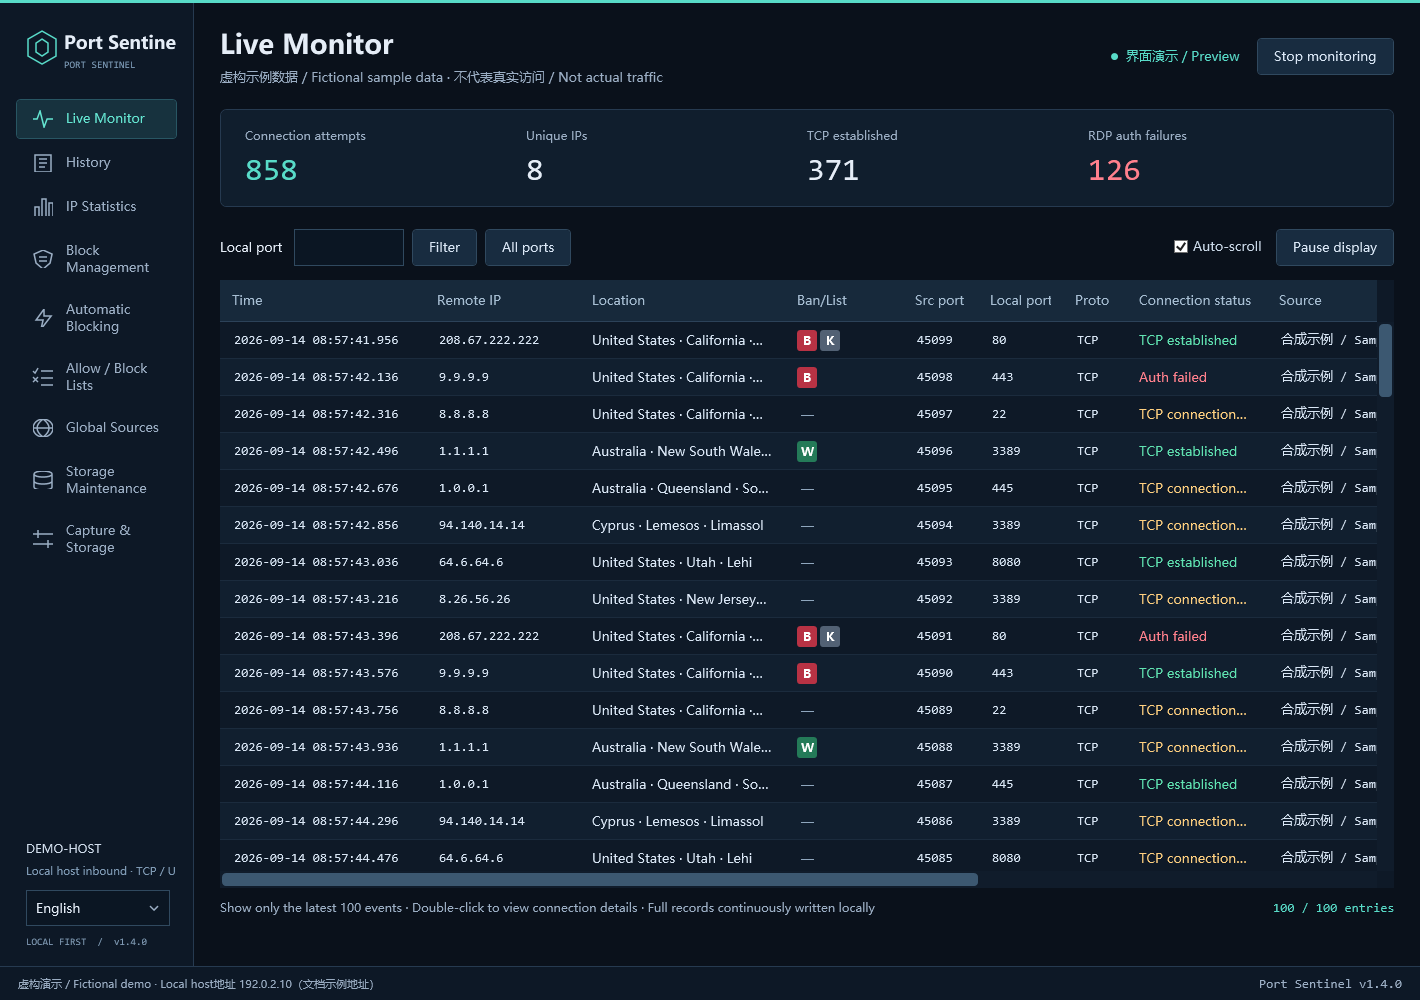
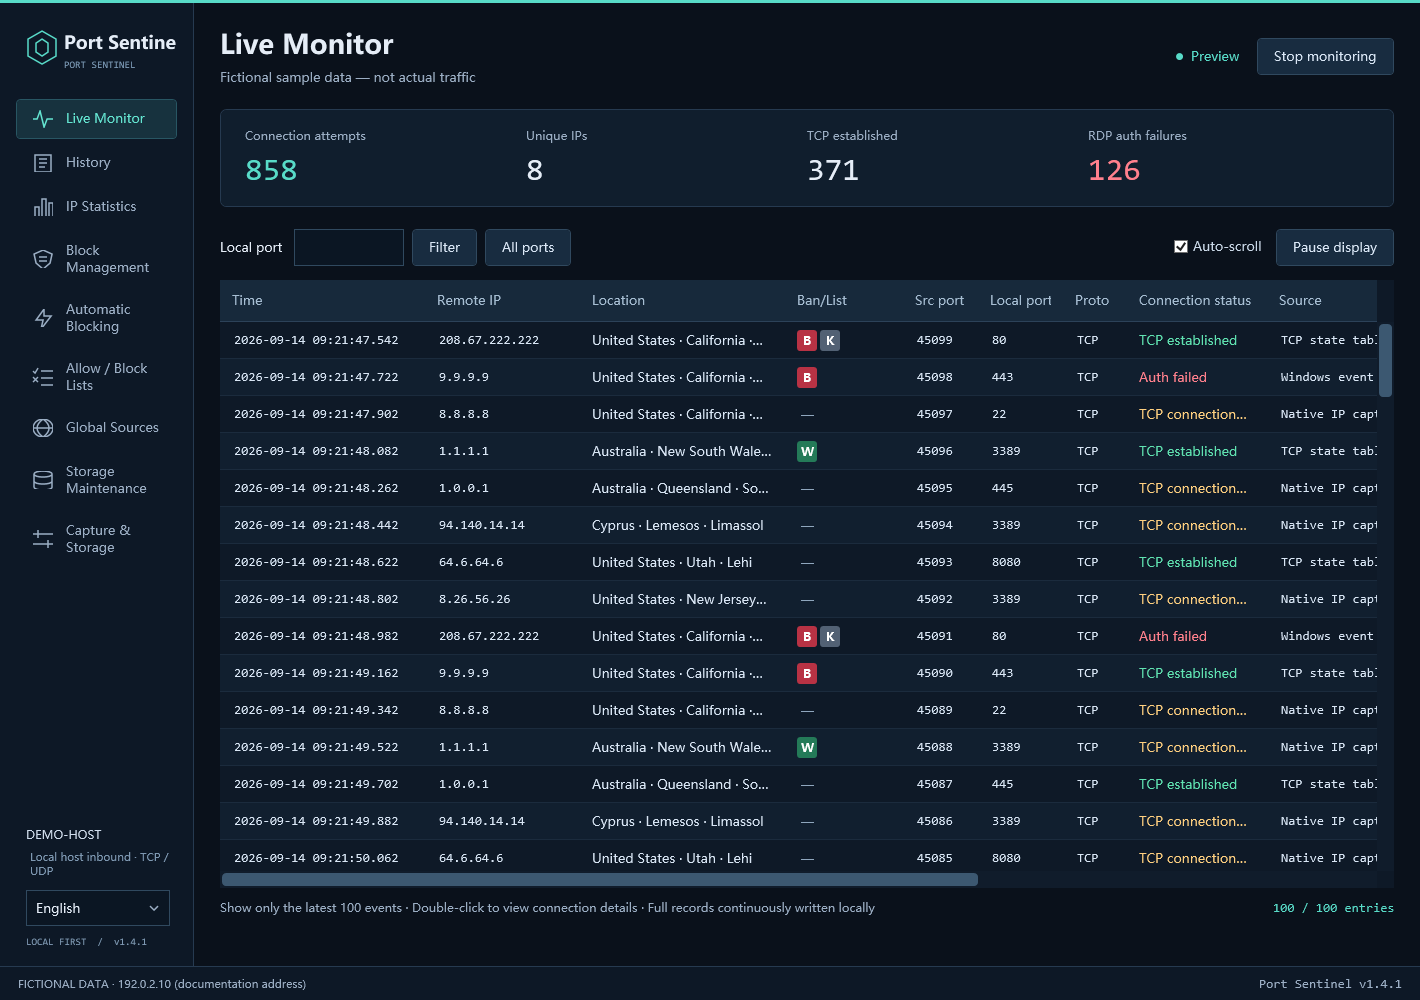
fix: 补齐动态多语言覆盖 / complete dynamic localization coverage

diff --git a/README.md b/README.md
@@ -12,8 +12,8 @@ Port Sentinel is a Windows desktop inbound connection monitor for users and admi
 
 ## 快速开始 / Quick start
 
-1. 从 [v1.4.0 Release](https://github.com/zuelu/port-sentinel/releases/tag/v1.4.0) 下载 **PortSentinel-v1.4.0-windows-x64.zip**，解压到可写的固定目录。
-   Download **PortSentinel-v1.4.0-windows-x64.zip** from the [v1.4.0 release](https://github.com/zuelu/port-sentinel/releases/tag/v1.4.0) and extract it to a stable, writable folder.
+1. 从 [v1.4.1 Release](https://github.com/zuelu/port-sentinel/releases/tag/v1.4.1) 下载 **PortSentinel-v1.4.1-windows-x64.zip**，解压到可写的固定目录。
+   Download **PortSentinel-v1.4.1-windows-x64.zip** from the [v1.4.1 release](https://github.com/zuelu/port-sentinel/releases/tag/v1.4.1) and extract it to a stable, writable folder.
 2. 运行 **PortSentinel.exe**，在 Windows 提示时允许管理员权限；保持 `GeoData` 和 `Languages` 文件夹与 EXE 同目录。
    Run **PortSentinel.exe** and grant administrator permission when Windows asks. Keep the `GeoData` and `Languages` folders beside the EXE.
 3. 在“实时监测”输入本机端口，如 `3389`，点击“筛选”。在“历史日志”和“IP 统计”按日期、端口或 IP 回查。
@@ -43,9 +43,9 @@ Language packs live in `Languages`, work offline, and can be customized. See the
 <a id="screenshots"></a>
 ## 功能页面截图 / Feature screenshots
 
-以下展示 v1.4.0 的 9 个功能页面，均使用虚构演示数据。截图中的地址、连接、规则和主机信息仅用于说明界面，不代表真实流量或相关服务的行为。点击图片可查看大图。
+以下展示 v1.4.1 的 9 个功能页面，均使用虚构演示数据。截图中的地址、连接、规则和主机信息仅用于说明界面，不代表真实流量或相关服务的行为。点击图片可查看大图。
 
-These screenshots show all nine feature pages in v1.4.0 using fictional sample data. Addresses, connections, rules, and host details illustrate the interface only; they do not represent actual traffic or the behavior of the named services. Click an image to view it at full size.
+These screenshots show all nine feature pages in v1.4.1 using fictional sample data. Addresses, connections, rules, and host details illustrate the interface only; they do not represent actual traffic or the behavior of the named services. Click an image to view it at full size.
 
 ### 实时端口监测 / Live port monitoring
 

diff --git a/CHANGELOG.md b/CHANGELOG.md
@@ -1,5 +1,22 @@
 # 更新日志 / Changelog
 
+## v1.4.1 — 2026-09-14
+
+- 修复实时监测、历史日志、IP统计、封禁、自动规则和名单列表中动态状态及来源的漏译，刷新、滚动与新增记录继续使用所选语言。
+  Fixed untranslated dynamic states and sources in live, history, IP statistics, block, rule, and list views. Refreshing, scrolling, and new records retain the selected language.
+- 补齐19种语言的事件说明、封禁状态、数值时长、规则条件和采集能力模板。
+  Completed event-detail, block-state, numeric-duration, rule-condition, and capture-capability templates in all 19 languages.
+- 修复下拉选项、大屏动态提示、存储状态和详情窗口的漏译。
+  Fixed untranslated dropdown labels, dynamic dashboard messages, storage states, and detail windows.
+- 默认规则名跟随界面语言；用户改写的规则名和备注保持原样。时区显示改用稳定的系统ID和实际UTC偏移。
+  The suggested rule name follows the interface language, while user-edited names and notes stay unchanged. Timezone display uses a stable system ID and actual UTC offset.
+
+升级请同时更新 EXE 和 `Languages` 文件夹；保留数据库、地理库及 `ui-language.txt`。
+
+Update both the EXE and the `Languages` folder. Retain databases, geolocation data, and `ui-language.txt`.
+
+[下载 v1.4.1 / Download v1.4.1](https://github.com/zuelu/port-sentinel/releases/tag/v1.4.1)
+
 ## v1.4.0 — 2026-09-14
 
 - 新增 19 种界面语言与离线 JSON 语言包，简体中文第一、英语第二。

diff --git a/INSTALL.md b/INSTALL.md
@@ -18,8 +18,8 @@ The UI supports 19 languages. Instructions show Chinese control labels with Engl
 
 ## 下载与启动 / Download and launch
 
-1. 打开 [Releases](https://github.com/zuelu/port-sentinel/releases/latest)，下载完整的 `PortSentinel-v1.4.0-windows-x64.zip`。
-   Open [Releases](https://github.com/zuelu/port-sentinel/releases/latest) and download the complete `PortSentinel-v1.4.0-windows-x64.zip`.
+1. 打开 [Releases](https://github.com/zuelu/port-sentinel/releases/latest)，下载完整的 `PortSentinel-v1.4.1-windows-x64.zip`。
+   Open [Releases](https://github.com/zuelu/port-sentinel/releases/latest) and download the complete `PortSentinel-v1.4.1-windows-x64.zip`.
 2. 先完整解压，不要直接在 ZIP 内运行程序。
    Extract the archive completely; do not run the application from inside the ZIP.
 3. 保持 `PortSentinel.exe`、`GeoData/dbip-city-lite.mmdb` 与 `Languages` 文件夹的相对位置不变。
